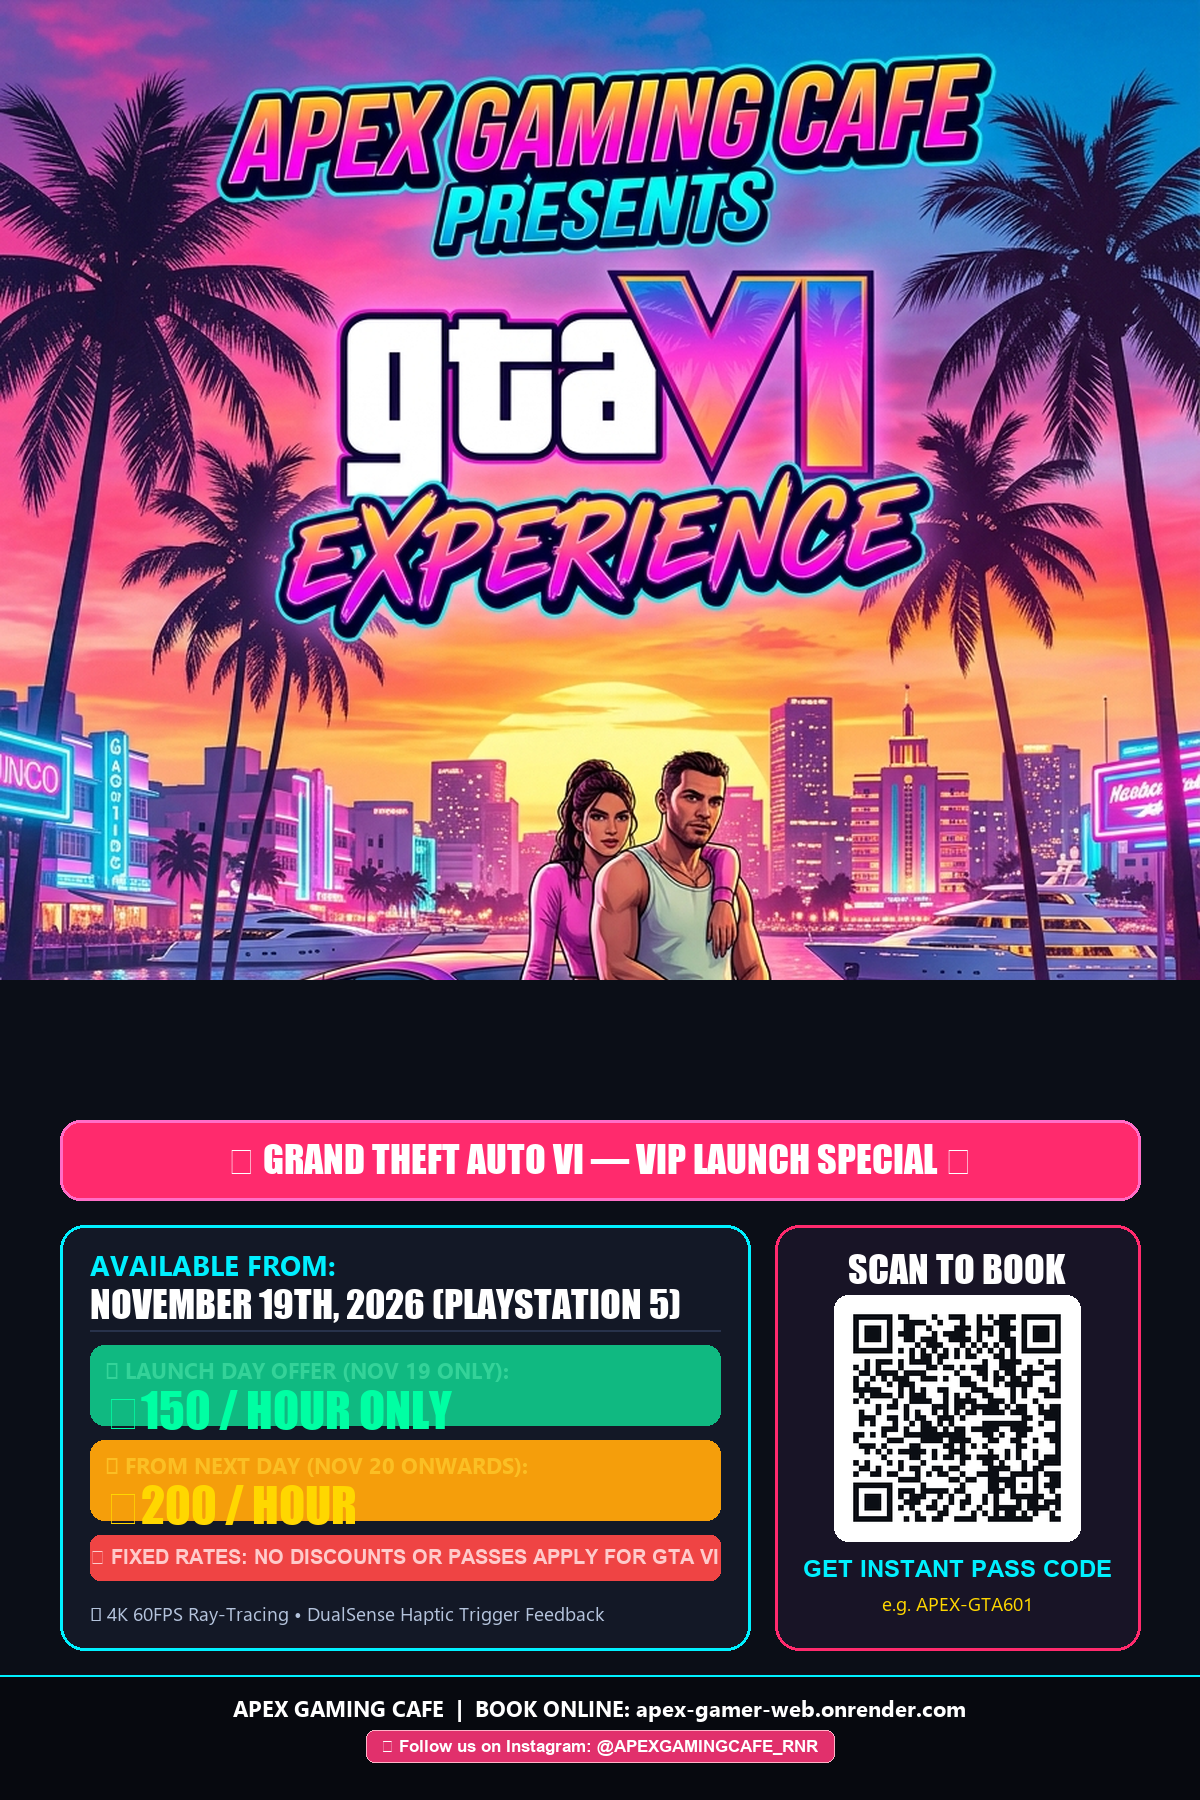
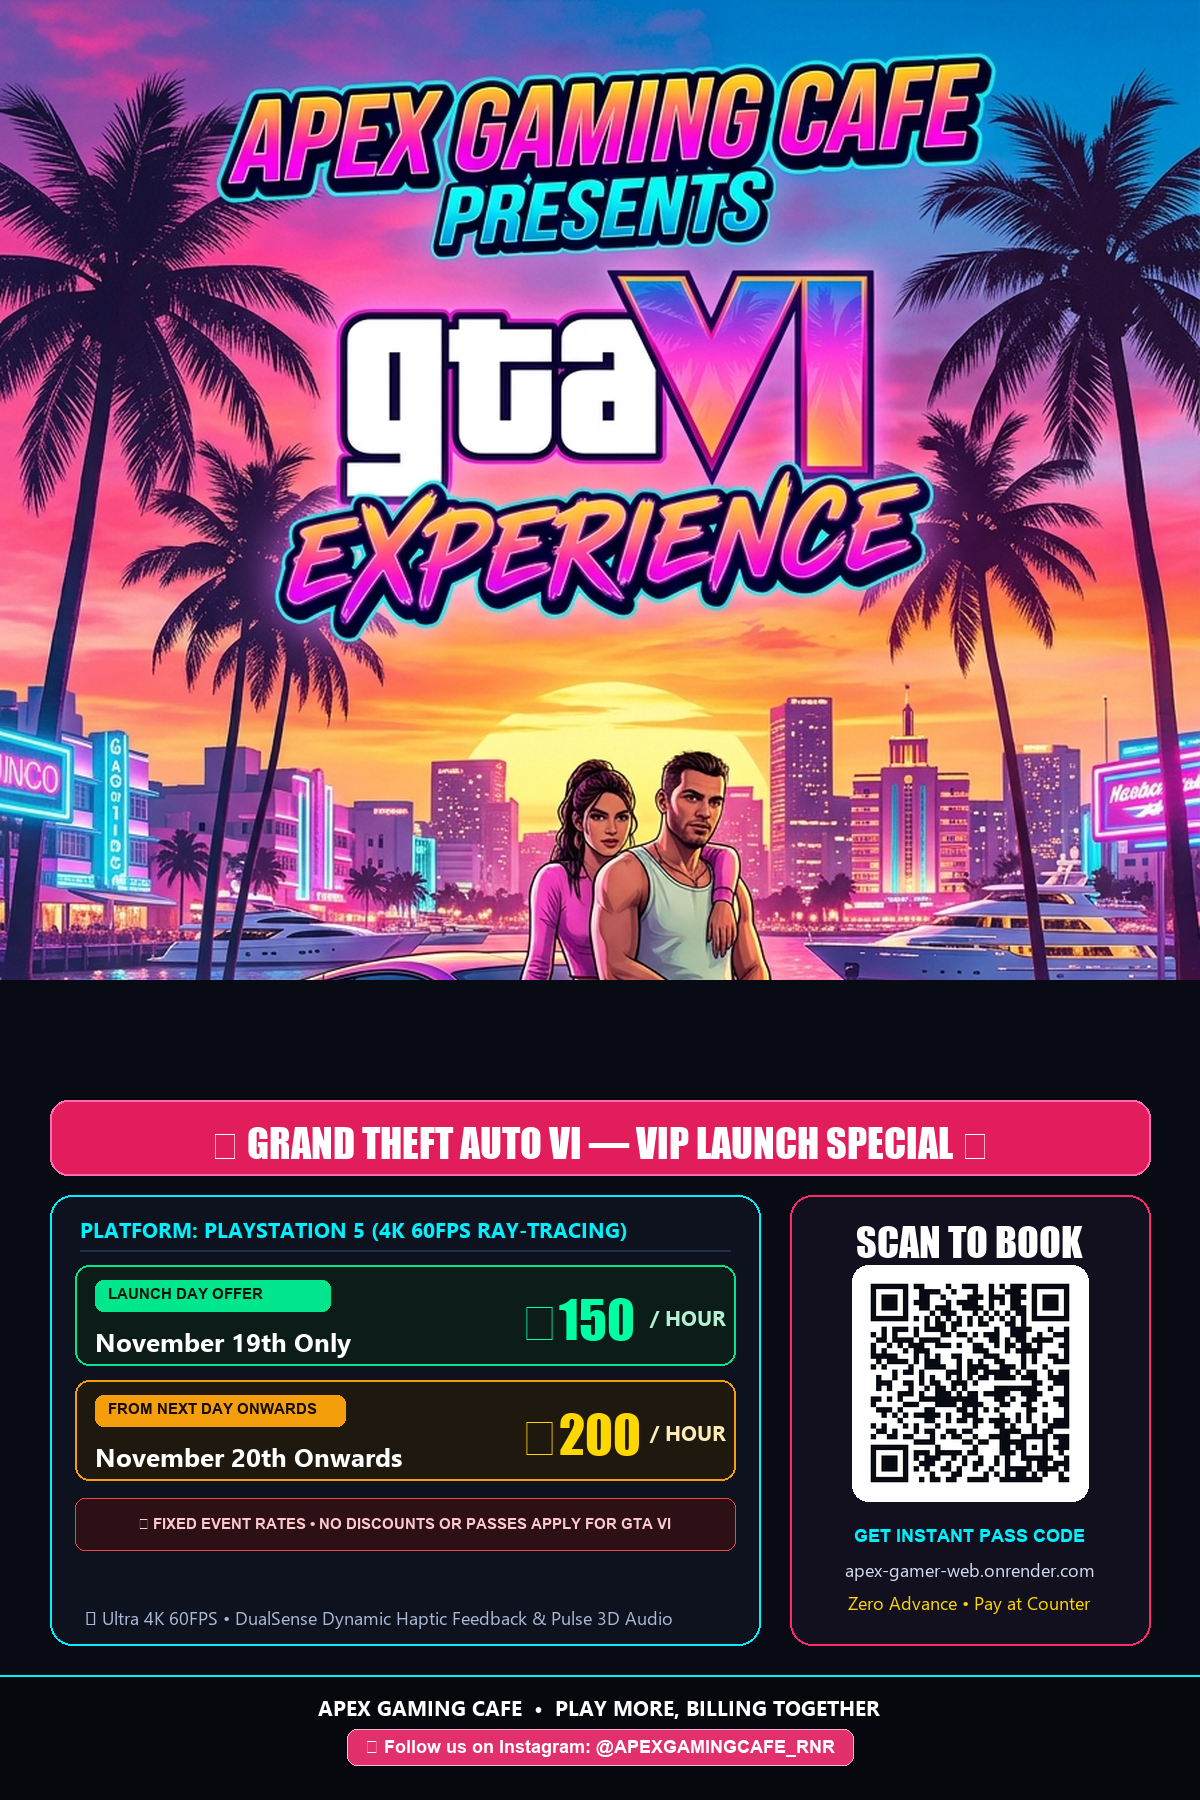
style: Improve text contrast, color hierarchy, and grid alignment across posters and UI

Changed region(s): [[0.0308, 0.5911, 0.9558, 0.9956]]

diff --git a/frontend/src/App.jsx b/frontend/src/App.jsx
@@ -172,17 +172,17 @@ export default function App() {
 
                   {/* Pricing: Launch Day Offer vs Next Day Rate */}
                   <div className="flex flex-wrap items-center gap-2 sm:gap-3 mb-2">
-                    <div className="flex items-center gap-1.5 px-3 py-1 rounded-xl bg-emerald-500/10 border border-emerald-500/30 text-emerald-300">
-                      <span className="text-[11px] font-bold text-neutral-400">Launch Day (Nov 19):</span>
-                      <span className="text-base sm:text-lg font-black text-emerald-400">₹150 / hr</span>
+                    <div className="flex items-center gap-2 px-3.5 py-1.5 rounded-xl bg-emerald-950/40 border border-emerald-500/30">
+                      <span className="text-[11px] font-semibold text-neutral-300">Nov 19 Launch:</span>
+                      <span className="text-base font-black text-emerald-400">₹150 / hr</span>
                     </div>
-                    <div className="flex items-center gap-1.5 px-3 py-1 rounded-xl bg-amber-500/10 border border-amber-500/30 text-amber-300">
-                      <span className="text-[11px] font-bold text-neutral-400">From Next Day (Nov 20+):</span>
-                      <span className="text-base sm:text-lg font-black text-amber-400">₹200 / hr</span>
+                    <div className="flex items-center gap-2 px-3.5 py-1.5 rounded-xl bg-amber-950/40 border border-amber-500/30">
+                      <span className="text-[11px] font-semibold text-neutral-300">From Nov 20+:</span>
+                      <span className="text-base font-black text-amber-400">₹200 / hr</span>
                     </div>
-                    <div className="px-2.5 py-1 rounded-xl bg-rose-950/60 border border-rose-500/50 text-[11px] font-bold text-rose-300 flex items-center gap-1.5">
+                    <div className="px-3 py-1.5 rounded-xl bg-rose-950/50 border border-rose-500/40 text-[11px] font-bold text-rose-300 flex items-center gap-1.5">
                       <span>⛔</span>
-                      <span>Fixed Rates • No Discounts Apply</span>
+                      <span>Fixed Rates • No Discounts</span>
                     </div>
                   </div>
                 </div>

diff --git a/frontend/src/components/Gta6PosterModal.jsx b/frontend/src/components/Gta6PosterModal.jsx
@@ -76,14 +76,20 @@ export default function Gta6PosterModal({ isOpen, onClose, onPreBook }) {
                 <span className="font-bold text-white">PlayStation 5 (4K 60FPS)</span>
               </div>
 
-              <div className="pt-2 border-t border-neutral-800 space-y-1.5">
-                <div className="flex items-center justify-between text-xs">
-                  <span className="text-emerald-400 font-bold">Launch Day Special (Nov 19):</span>
-                  <span className="text-lg font-black text-emerald-400">₹150 / hour</span>
+              <div className="pt-2.5 border-t border-neutral-800 space-y-2">
+                <div className="flex items-center justify-between text-xs p-2 rounded-xl bg-emerald-950/30 border border-emerald-500/20">
+                  <span className="text-neutral-200 font-semibold flex items-center gap-1.5">
+                    <span className="w-2 h-2 rounded-full bg-emerald-400 animate-pulse"></span>
+                    Launch Day Special (Nov 19):
+                  </span>
+                  <span className="text-base font-black text-emerald-400">₹150 / hr</span>
                 </div>
-                <div className="flex items-center justify-between text-xs">
-                  <span className="text-amber-400 font-bold">From Next Day (Nov 20 onwards):</span>
-                  <span className="text-lg font-black text-amber-400">₹200 / hour</span>
+                <div className="flex items-center justify-between text-xs p-2 rounded-xl bg-amber-950/30 border border-amber-500/20">
+                  <span className="text-neutral-200 font-semibold flex items-center gap-1.5">
+                    <span className="w-2 h-2 rounded-full bg-amber-400"></span>
+                    From Next Day (Nov 20 onwards):
+                  </span>
+                  <span className="text-base font-black text-amber-400">₹200 / hr</span>
                 </div>
               </div>
             </div>
